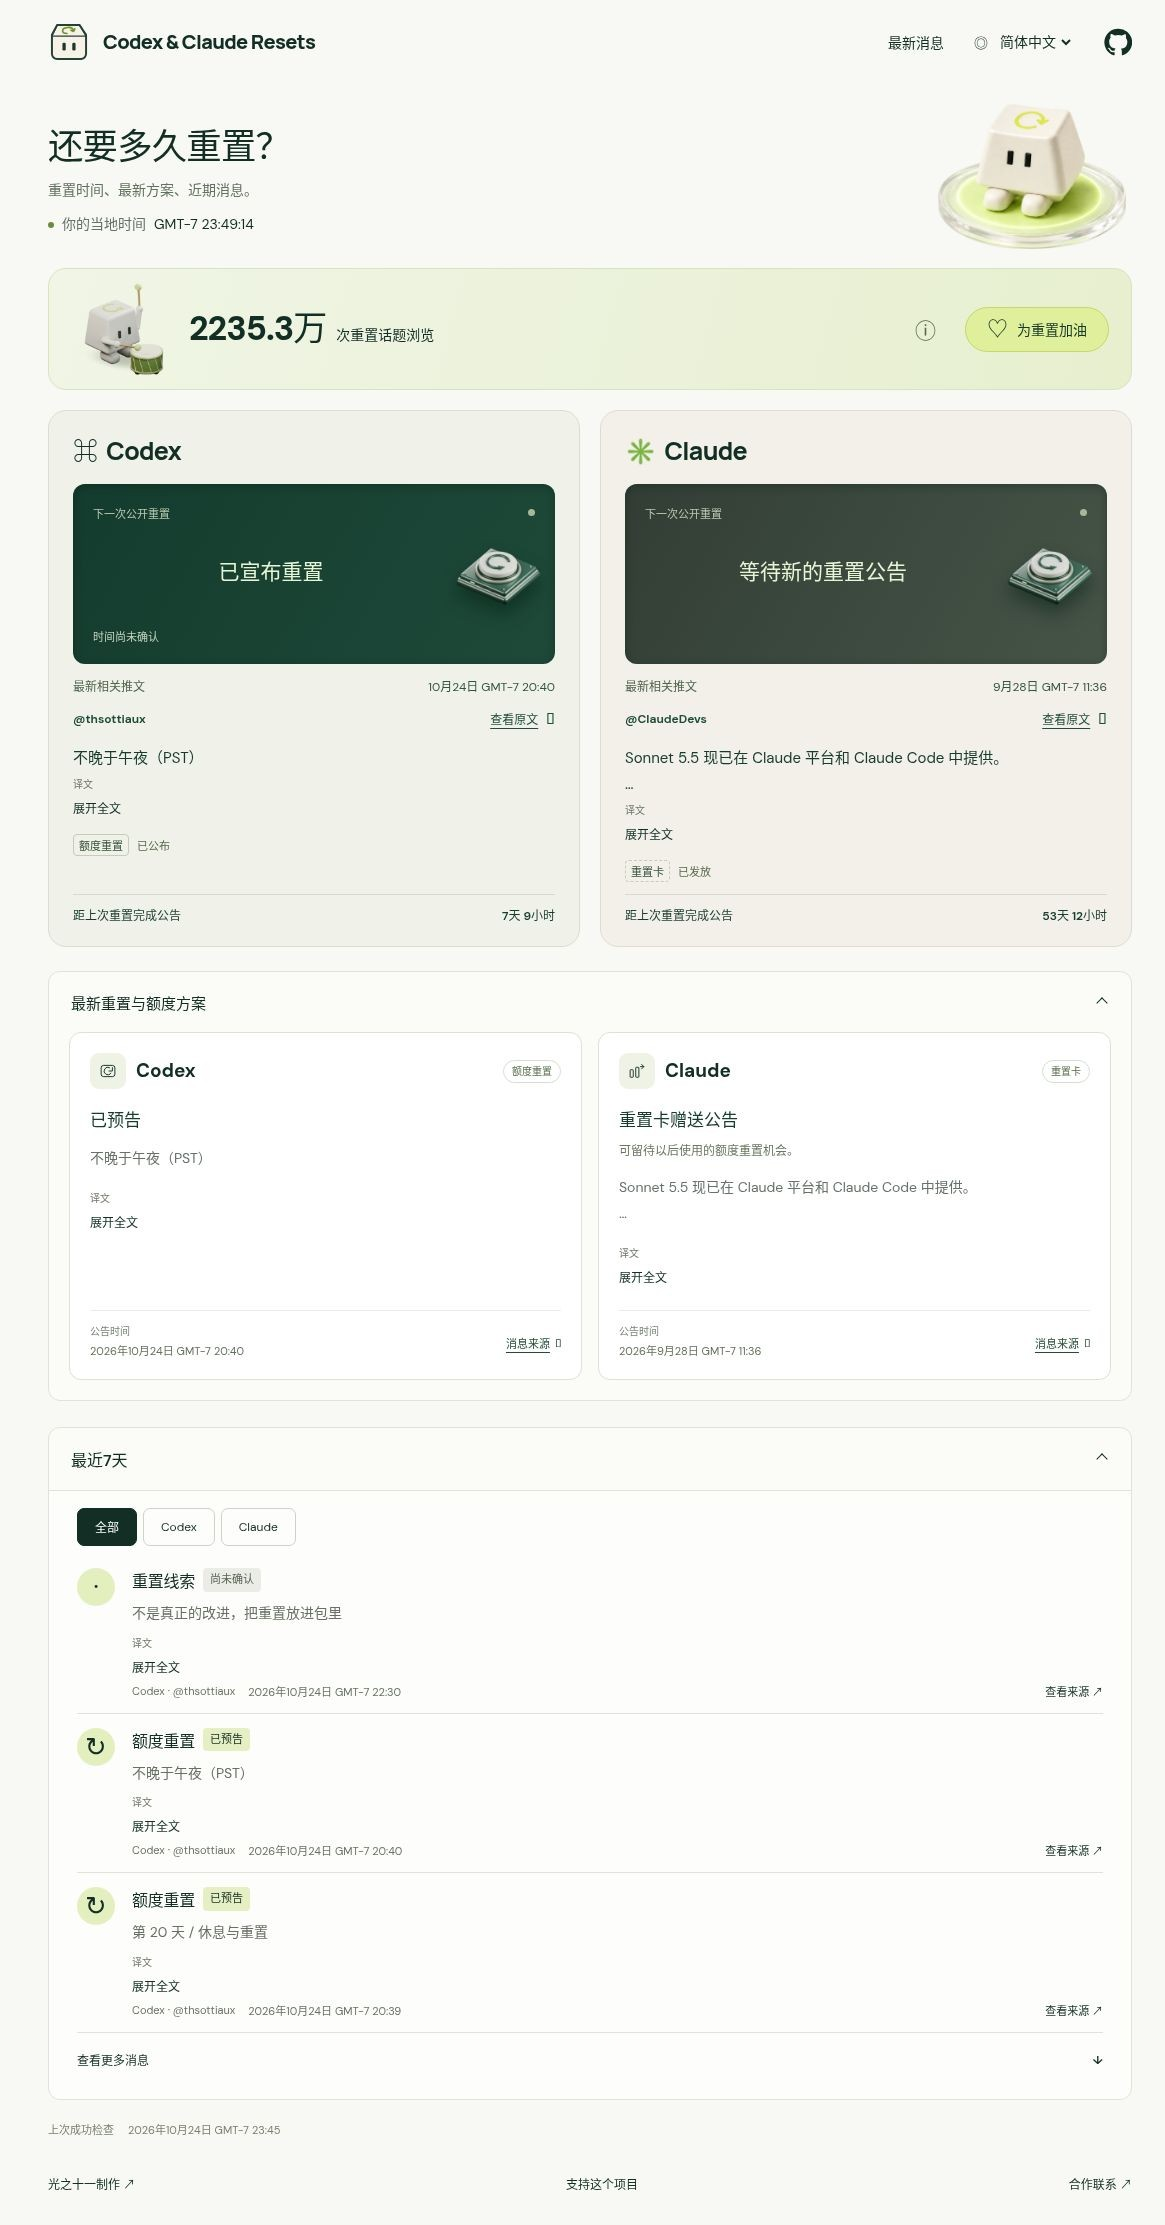
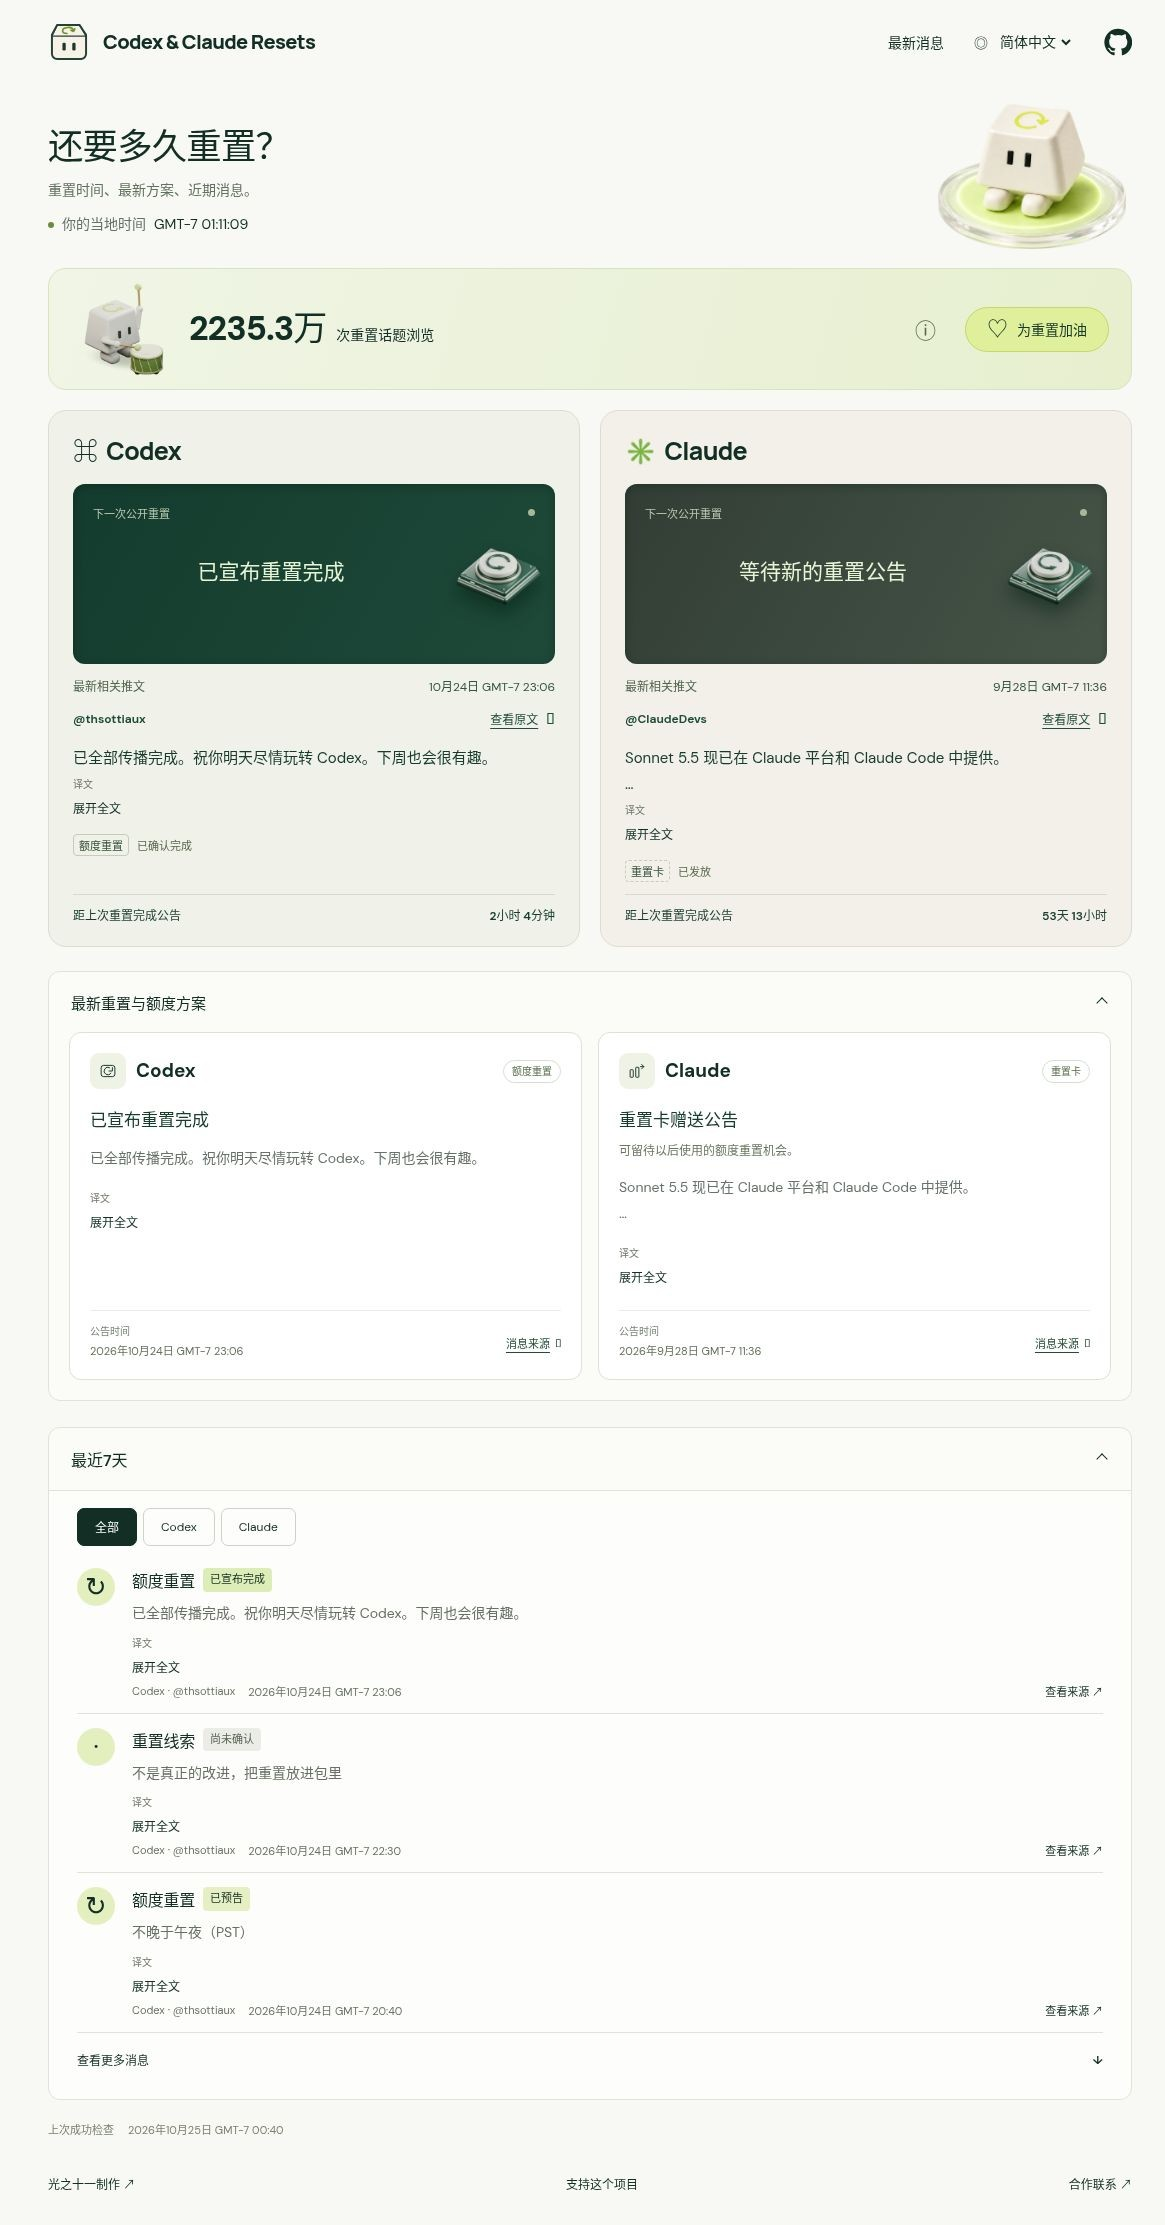
Refresh README screenshot after official completion tracking fix (#39)
* Capture verified official reset completion in production

* Link the verified official completion production screenshot

diff --git a/README.md b/README.md
@@ -3,7 +3,7 @@
 <p align="center"><strong>Reset times. Sources. History.</strong><br>When do Codex and Claude reset? One page. Your local time.</p>
 <p align="center"><a href="https://shixilin.com/ai/codex-claude-resets/">Open the tracker</a> · <a href="https://shixilin.com/ai/codex-claude-resets/feed.xml">RSS</a> · <a href="https://shixilin.com/ai/codex-claude-resets/events.json">Public JSON</a> · <a href="#简体中文">简体中文</a></p>
 
-![Codex & Claude Resets desktop interface](https://raw.githubusercontent.com/shixi-11/codex-claude-resets/a84563379fcecc1616d3fc00610dc6343752371a/docs/screenshot.jpg)
+![Codex & Claude Resets desktop interface](https://raw.githubusercontent.com/shixi-11/codex-claude-resets/b14147b95413ddec39fa2ddaf11dc9835e78cfc3/docs/screenshot.jpg)
 
 Codex & Claude Resets puts the next confirmed Codex and Claude reset time first. See the next confirmed time, the latest relevant post with its publication time, and elapsed time since the last reset completion report was published. The latest published reset or credit announcement and the current Claude usage promotion appear before recent source posts. Sections are expanded by default.
 
